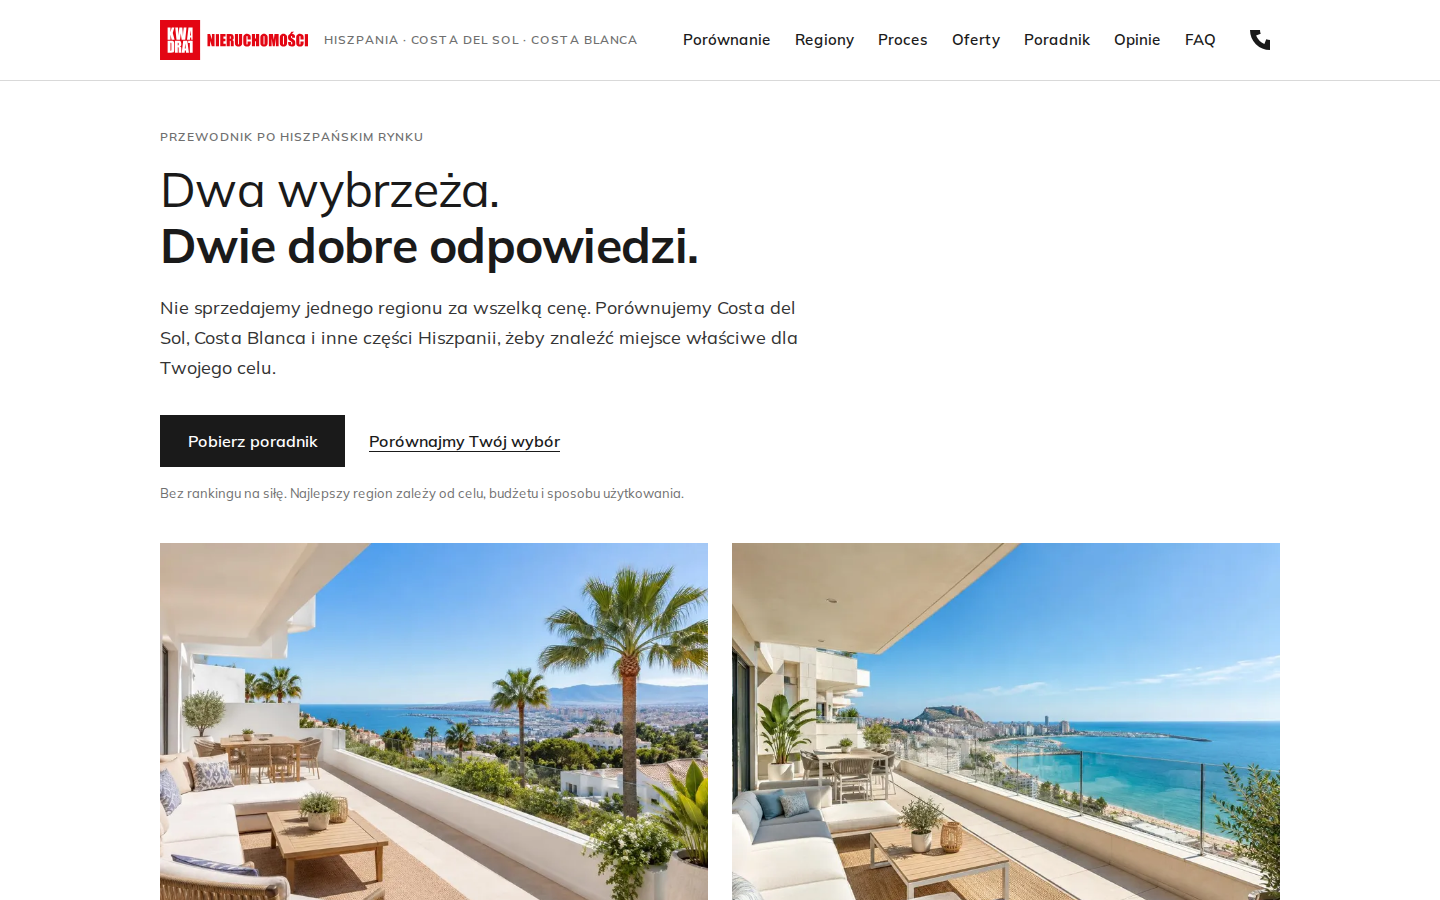
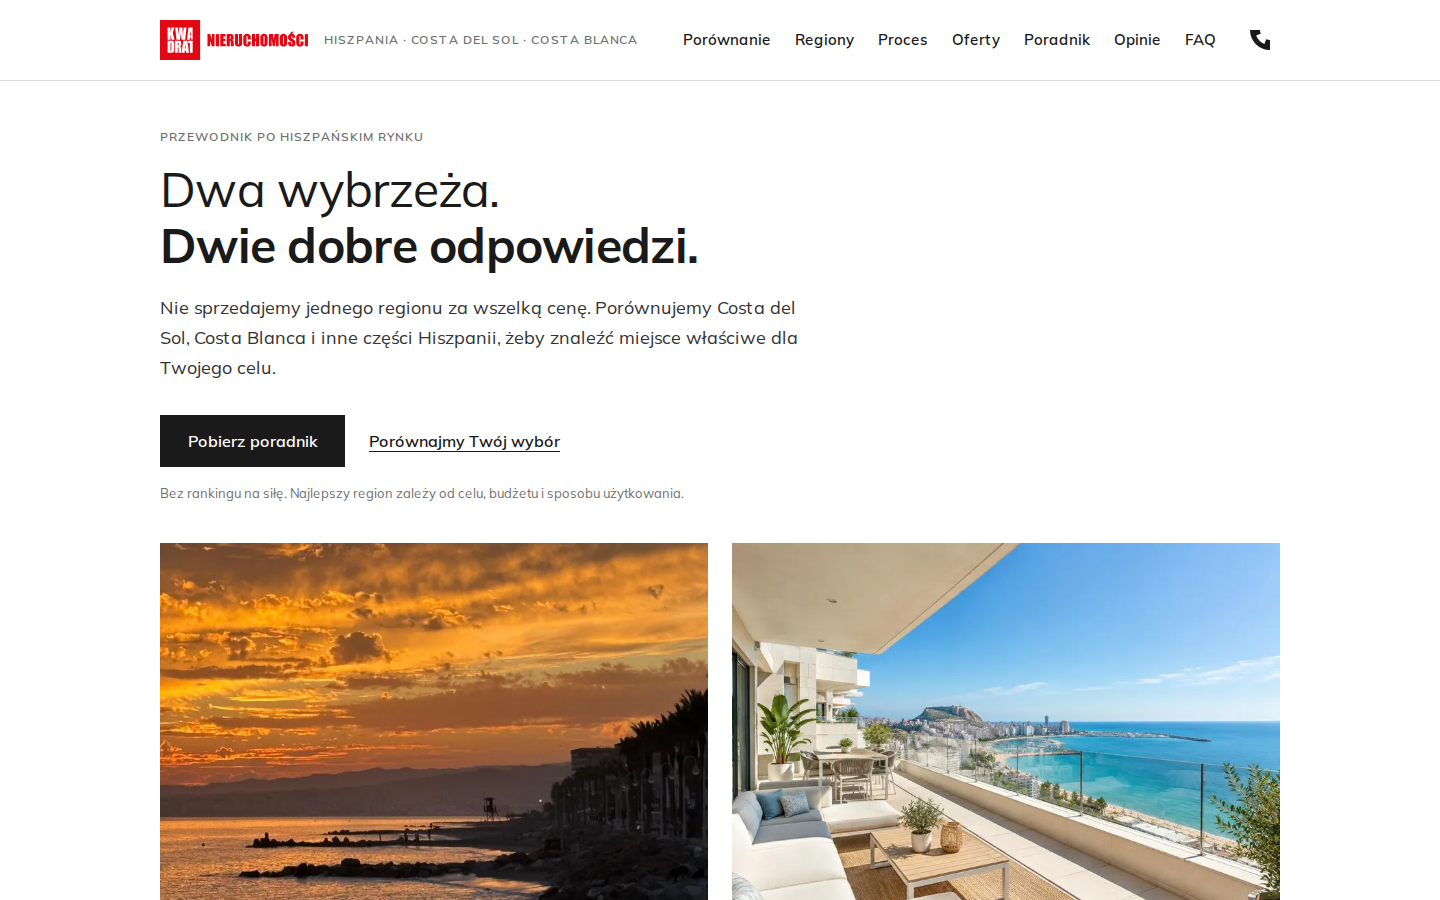
Hero: prawdziwe zdjęcie wybrzeża od Idziego przy Costa del Sol
Zdjęcie zamiast obrazu od dewelopera, kadr o 1,3% szerokości do proporcji
zdjęcia Costa Blanca (oba kierunki równej wysokości). og:image to teraz
wariant 1600 px. Drugie zdjęcie (ogród z hamakiem, z HEIC bez metadanych)
czeka w zdjecia/do-decyzji/. Zrzuty odświeżone.

Claude-Session: https://claude.ai/code/session_014JYpXKEVwEFgyeoeaQ5252

Changed region(s): [[0.0938, 0.5911, 0.5, 1.0]]

diff --git a/src/content/site.ts b/src/content/site.ts
@@ -81,14 +81,16 @@ export const HAS_GOOGLE_RATING = [GOOGLE_RATING, GOOGLE_REVIEWS, GOOGLE_PROFILE_
 // Zdjęcia: źródła w zdjecia/, warianty w public/img/{name}-{szerokość}.webp i .jpg
 // (generuje npm run zdjecia). ratio to naturalne proporcje pliku, bez kadrowania.
 // Brak plików = szare pole z podpisem.
-// Źródło zdjęć w hero i w ofertach: deweloper (potwierdził Idzi 3.10.2026).
+// Źródło zdjęć w ofertach i przy Costa Blanca: deweloper (potwierdził Idzi 3.10.2026).
+// Przy Costa del Sol prawdziwe zdjęcie wybrzeża od Idziego (11.10.2026, miejsce do potwierdzenia).
 // Hero: dwa zdjęcia, po jednym przy każdym kierunku (decyzja Idziego 5.10.2026, jak na live).
-// Alty jak na live. Podpis „Zdjęcie poglądowe” (PHOTO_NOTE) zostaje.
+// Alt Costa Blanca jak na live. Podpis „Zdjęcie poglądowe” (PHOTO_NOTE) zostaje: zdjęcie pokazuje region,
+// nie konkretną ofertę.
 const IMAGES = {
   heroSol: {
     name: 'hero-costa-del-sol',
     ratio: [1200, 912],
-    alt: 'Taras apartamentu z widokiem na wybrzeże Costa del Sol',
+    alt: 'Złote niebo nad wybrzeżem Costa del Sol: falochrony, plaża i promenada z palmami',
     placeholder: 'Zdjęcie 4:3',
   },
   heroBlanca: {
@@ -153,10 +155,10 @@ const raw = {
     ogTitle: 'Kwadrat Nieruchomości | Hiszpania',
     ogDescription:
       'Costa del Sol czy Costa Blanca? Pomagamy wybrać region dopasowany do Twojego celu, budżetu i stylu życia.',
-    // og:image: zdjęcie hero Costa del Sol w wariancie 1200 px (decyzja Idziego 5.10.2026)
-    ogImage: '/img/hero-costa-del-sol-1200.jpg',
-    ogImageSize: [1200, 912],
-    ogImageAlt: 'Taras apartamentu z widokiem na wybrzeże Costa del Sol',
+    // og:image: zdjęcie hero Costa del Sol (decyzja Idziego 5.10.2026), największy wariant: 1600 px
+    ogImage: '/img/hero-costa-del-sol-1600.jpg',
+    ogImageSize: [1600, 1216],
+    ogImageAlt: 'Złote niebo nad wybrzeżem Costa del Sol: falochrony, plaża i promenada z palmami',
     author: 'Kwadrat Nieruchomości',
   },
 

diff --git a/CLAUDE.md b/CLAUDE.md
@@ -102,7 +102,7 @@ Kontrast na paper: ink 17,4:1, text 12,6:1, muted 5,0:1, kwadrat-red 4,9:1 (tylk
 Zatwierdzone copy jest w `site.ts`. `docs/copy.md` to zapis najstarszej wersji, nie źródło: nie wracają z niej rząd PL / 360° / 1 plan, „Bez ukrytych kosztów”, stare sekcje o Costa Blanca, lista ryzyk z migracją ani tabela z Lagos. Nie odtwarzaj tekstów z pamięci; live to aplikacja JS, więc czytaj wersję wyrenderowaną przeglądarką.
 
 1. Nagłówek: lockup, etykieta, menu (Porównanie, Regiony, Proces, Oferty, Poradnik, Opinie, FAQ; Oferty znika przy `SHOW_OFFERS = false`), piktogram telefonu.
-2. Hero (#start): `label` PRZEWODNIK PO HISZPAŃSKIM RYNKU, h1 „Dwa wybrzeża.” (400) / „Dwie dobre odpowiedzi.” (700), lead, przycisk „Pobierz poradnik” (#poradnik), link „Porównajmy Twój wybór” (#kontakt), `small` „Bez rankingu na siłę. ...”. Kierunki Costa del Sol i Costa Blanca ze zdjęciami tarasów i linkiem „Zobacz mocne strony i kompromisy” (#porownanie). Pasek KPI: Ocena Google, Regiony, Obsługa, Weryfikacja.
+2. Hero (#start): `label` PRZEWODNIK PO HISZPAŃSKIM RYNKU, h1 „Dwa wybrzeża.” (400) / „Dwie dobre odpowiedzi.” (700), lead, przycisk „Pobierz poradnik” (#poradnik), link „Porównajmy Twój wybór” (#kontakt), `small` „Bez rankingu na siłę. ...”. Kierunki Costa del Sol (wybrzeże) i Costa Blanca (taras) ze zdjęciami i linkiem „Zobacz mocne strony i kompromisy” (#porownanie). Pasek KPI: Ocena Google, Regiony, Obsługa, Weryfikacja.
 3. Porównanie (#porownanie): `label`, h2, lead, tabela (Charakter, Budżet, Życie poza sezonem, Dostępność, Dla kogo jako kotwica), pod nią nota o różnicach między gminami.
 4. Regiony (#regiony): `label`, h2, lead, sześć kafelków 4+4+4 (`label` 01 do 06, `label` z miejscowościami, h3, akapit).
 5. Poradnik (#poradnik): 4+4+4: opis (`label`, h2, akapit, lista atutów z czterema punktami, `small` „PDF · dostęp po zapisie”), okładka bez ramki i cienia z czerwonym przyciskiem „Pobierz darmowy poradnik” obok napisu „Słoneczna Hiszpania” (prowadzi do formularza, fokus na pierwszym polu, po zapisie na linku do PDF; hover ink), formularz od góry kolumny (Imię i Nazwisko w rzędzie, E-mail, przycisk, zgoda).
@@ -129,8 +129,8 @@ Zatwierdzone copy jest w `site.ts`. `docs/copy.md` to zapis najstarszej wersji, 
 ## Zdjęcia i PDF
 
 - Źródła w `zdjecia/` pod nazwą miejsca; `npm run zdjecia` zapisuje WebP i JPG 800 i 1600px (mniejsze źródło w pełnej szerokości) do `public/img/`; proporcje i kadr w `scripts/zdjecia.mjs`. Na stronie `<picture>`, zawsze `width` i `height`, `loading="lazy"` poza hero.
-- Hero: `hero-costa-del-sol.jpg` i `hero-costa-blanca.jpg` (1200 × 912, od dewelopera, poglądowe), alty „Taras apartamentu z widokiem na wybrzeże Costa del Sol” i „Taras apartamentu z widokiem na Alicante i Costa Blanca”.
-- Oferty: `oferta-malaga.jpg`, `oferta-mijas.jpg`, `oferta-marbella.jpg` (1008 × 752, wizualizacje dewelopera, Idzi podmieni). Poradnik: `poradnik-cover.png`, pierwsza strona PDF poradnika (A4, 1654 × 2339, decyzja Idziego 9.10.2026); przy nowym PDF podmienić razem z nim. Kontakt: `kontakt.jpg` (Piotr i Ania, 720 × 960, kadr 4:3 z dołu, `focus` 0,86; do podmiany na oryginał z telefonu). Poza `kontakt.jpg` bez kadrowania.
+- Hero: `hero-costa-del-sol.jpg` (prawdziwe zdjęcie wybrzeża od Idziego, 2000 × 1500, kadr do 1200:912 o 1,3% szerokości, żeby kierunki miały równą wysokość) i `hero-costa-blanca.jpg` (1200 × 912, od dewelopera); oba z podpisem „Zdjęcie poglądowe”. Alty „Złote niebo nad wybrzeżem Costa del Sol: falochrony, plaża i promenada z palmami” i „Taras apartamentu z widokiem na Alicante i Costa Blanca”. Zdjęcia od Idziego bez miejsca na stronie czekają w `zdjecia/do-decyzji/`.
+- Oferty: `oferta-malaga.jpg`, `oferta-mijas.jpg`, `oferta-marbella.jpg` (1008 × 752, wizualizacje dewelopera, Idzi podmieni). Poradnik: `poradnik-cover.png`, pierwsza strona PDF poradnika (A4, 1654 × 2339, decyzja Idziego 9.10.2026); przy nowym PDF podmienić razem z nim. Kontakt: `kontakt.jpg` (Piotr i Ania, 720 × 960, kadr 4:3 z dołu, `focus` 0,86; do podmiany na oryginał z telefonu). Poza `kontakt.jpg` i wyrównaniem `hero-costa-del-sol.jpg` bez kadrowania.
 - Na miejscu w Hiszpanii: `zespol-hiszpania.jpg`, selfie Idziego z Sylwią i Gilbertem (1500 × 2000, robocze, Idzi może podmienić): `ratio: null`, bez kadru i podpisu (pusty `team.photoNote`), alt z imionami od lewej.
 - PDF poradnika: `public/poradnik.pdf`, wersja od Idziego z 9.10.2026 (22 strony A4 w stylu Kwadrat, 0,8 MB); Cloudflare Pages przyjmuje pliki do 25 MiB, większy plik trzeba zmniejszyć (zdjęcia do JPEG). Treści PDF nie zmieniamy. W `public/_headers` `X-Robots-Tag: noindex`.
 
@@ -151,7 +151,7 @@ Zatwierdzone copy jest w `site.ts`. `docs/copy.md` to zapis najstarszej wersji, 
 
 ## SEO
 
-- Meta jak na live: title „Kwadrat Nieruchomości | Costa del Sol i Costa Blanca”, og:title i twitter:title „Kwadrat Nieruchomości | Hiszpania”, description, og:description i twitter:description w `site.ts`. og:image i twitter:image: `/img/hero-costa-del-sol-1200.jpg` (1200 × 912), twitter:card `summary_large_image`.
+- Meta jak na live: title „Kwadrat Nieruchomości | Costa del Sol i Costa Blanca”, og:title i twitter:title „Kwadrat Nieruchomości | Hiszpania”, description, og:description i twitter:description w `site.ts`. og:image i twitter:image: `/img/hero-costa-del-sol-1600.jpg` (1600 × 1216), twitter:card `summary_large_image`.
 - schema.org: RealEstateAgent (name, legalName, NIP, REGON, KRS, telefon, adres, logo `kwadrat-logo.svg`) i FAQPage. Kotwice jak w sekcjach.
 - `public/sitemap.xml` (dwie strony) i `Sitemap:` w `robots.txt`.
 
@@ -187,3 +187,4 @@ Zatwierdzone copy jest w `site.ts`. `docs/copy.md` to zapis najstarszej wersji, 
 - 7.10.2026: sekcja „Na miejscu w Hiszpanii” między Obsługą 360° a Opiniami: Sylwia Antczak Baranowska i Gilberto Tejada, nasi rezydenci i lokalni agenci; zdjęcie robocze: selfie Idziego z nimi. Poradnik PDF z live zamiast placeholdera.
 - 8.10.2026: pobieranie poradnika na górę: w hero przycisk główny „Pobierz poradnik”, a „Porównajmy Twój wybór” jako link obok; kolejność sekcji bez zmian.
 - 9.10.2026: nowy, poprawiony poradnik PDF (22 strony A4 w stylu Kwadrat) zamiast wersji z live; okładka przy formularzu to jego pierwsza strona. Na okładce przycisk „Pobierz darmowy poradnik”, czerwony w kolorze Kwadratu, obok napisu „Słoneczna Hiszpania”: świadomy wyjątek od reguł 2 (czerwone tło) i 5 (nic na zdjęciu) oraz od jednego przycisku głównego na sekcję, tylko w Poradniku.
+- 11.10.2026: Idzi przysłał prawdziwe zdjęcia: wybrzeże o złotej godzinie trafia do hero przy Costa del Sol zamiast zdjęcia od dewelopera (miejsce zdjęcia i jego region do potwierdzenia), ogród z hamakiem czeka w `zdjecia/do-decyzji/`.

diff --git a/README.md b/README.md
@@ -56,7 +56,7 @@ Miejsca na stronie (źródła w `zdjecia/`, nazwa pliku = nazwa miejsca):
 
 | Plik źródłowy w `zdjecia/` | Miejsce | Proporcje |
 | --- | --- | --- |
-| `hero-costa-del-sol.jpg` | hero, kierunek Costa del Sol; wariant 1200 px to też og:image | naturalne (dziś 1200 × 912) |
+| `hero-costa-del-sol.jpg` | hero, kierunek Costa del Sol (prawdziwe zdjęcie wybrzeża od Idziego); wariant 1600 px to też og:image | kadr do 1200 × 912, proporcji zdjęcia Costa Blanca (dziś źródło 2000 × 1500) |
 | `hero-costa-blanca.jpg` | hero, kierunek Costa Blanca | naturalne (dziś 1200 × 912) |
 | `poradnik-cover.png` | okładka przy formularzu poradnika: pierwsza strona `public/poradnik.pdf` | naturalne (A4, dziś 1654 × 2339) |
 | `oferta-malaga.jpg` | oferta Málaga Centro | naturalne (dziś 1008 × 752) |
@@ -70,11 +70,11 @@ Miejsca na stronie (źródła w `zdjecia/`, nazwa pliku = nazwa miejsca):
 3. Jeśli zmieniły się proporcje, popraw `ratio` przy danym zdjęciu w `src/content/site.ts`. Tam też są teksty alternatywne (`alt`).
 4. Zrób commit plików z `zdjecia/` i `public/img/`.
 
-Dopóki zdjęcia nie ma, strona pokazuje szare pole z podpisem, np. „Zdjęcie 4:3". Na podglądzie zamiast szarego pola daj kopię zdjęcia, które już jest (decyzja Idziego 5.10.2026): skopiuj plik źródłowy w `zdjecia/` pod nazwą brakującego miejsca i uruchom `npm run zdjecia`. Dziś każde miejsce ma swoje zdjęcie. Podfoldery w `zdjecia/` są pomijane przez skrypt i nie trafiają na stronę.
+Dopóki zdjęcia nie ma, strona pokazuje szare pole z podpisem, np. „Zdjęcie 4:3". Na podglądzie zamiast szarego pola daj kopię zdjęcia, które już jest (decyzja Idziego 5.10.2026): skopiuj plik źródłowy w `zdjecia/` pod nazwą brakującego miejsca i uruchom `npm run zdjecia`. Dziś każde miejsce ma swoje zdjęcie. Podfoldery w `zdjecia/` są pomijane przez skrypt i nie trafiają na stronę: w `zdjecia/do-decyzji/` czekają zdjęcia od Idziego bez miejsca na stronie (dziś `ogrod-z-hamakiem.jpg`, ogród osiedla z tarasu, 1500 × 2000).
 
 Podpis „Zdjęcie poglądowe" pod zdjęciami w hero to stała `PHOTO_NOTE` w `site.ts`, a podpis „Wizualizacja" pod zdjęciami ofert to stała `OFFER_PHOTO_NOTE`. Pusty tekst ukrywa podpis, np. po podmianie wizualizacji na zdjęcia.
 
-Obraz do udostępniania linku (og:image i twitter:image, karta `summary_large_image`) to zdjęcie hero Costa del Sol w wariancie 1200 px: `/img/hero-costa-del-sol-1200.jpg`, 1200 × 912 (decyzja Idziego 5.10.2026). Ustawiają go `meta.ogImage` i `meta.ogImageSize` w `site.ts`. Po podmianie zdjęcia hero i `npm run zdjecia` obraz zmienia się sam; przy innych proporcjach popraw `ogImageSize`.
+Obraz do udostępniania linku (og:image i twitter:image, karta `summary_large_image`) to zdjęcie hero Costa del Sol w wariancie 1600 px: `/img/hero-costa-del-sol-1600.jpg`, 1600 × 1216 (decyzja Idziego 5.10.2026). Ustawiają go `meta.ogImage` i `meta.ogImageSize` w `site.ts`. Po podmianie zdjęcia hero i `npm run zdjecia` obraz zmienia się sam; przy innych proporcjach albo źródle węższym niż 1600 px popraw `ogImage` i `ogImageSize`.
 
 ## Oferty
 
